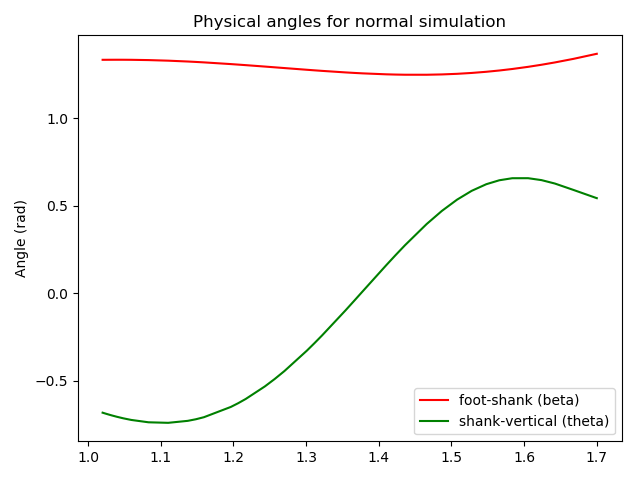
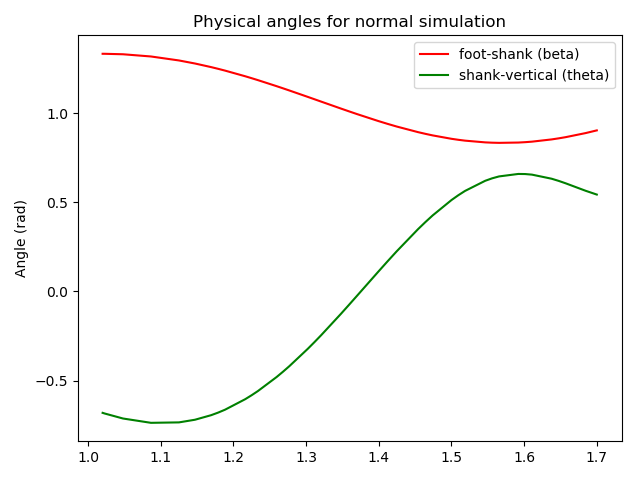
Change stuff so normal gait is working well

diff --git a/gait_simulate.py b/gait_simulate.py
@@ -14,7 +14,7 @@ import regression as r
 
 # ******** GLOBAL CONSTANTS ********
 # TODO: UPDATE THESE ! Some are still missing 
-I_ANKLE = 90
+I_ANKLE = 10
 F_MAX_SOLEUS = 16000
 F_MAX_TIBIALIS = 2000
 MOMENT_ARM_SOLEUS = .048
@@ -75,12 +75,6 @@ class GaitSimulator:
         :return the practical soleus activation for the type of simulation
         """
         a = r.soleus_activation(t)
-        if self.footDrop:
-            # reduce by a certain amount
-            a = a * 0.1 
-        if self.fes:
-            # add excitation
-            a = a + self.get_soleus_excitation(t, beta, d_beta, theta)
 
         return a
 
@@ -96,7 +90,7 @@ class GaitSimulator:
         a = r.tibialis_activation(t)
         if self.footDrop:
             # reduce by a certain amount
-            a = a * 0.1
+            a = 0
         if self.fes:
             # add excitation
             a = a + self.get_tibialis_excitation(t, beta, d_beta, theta)
@@ -158,8 +152,8 @@ class GaitSimulator:
         l_tibialis = tibialis_length(beta)
         l_tendon_norm_soleus = self.soleus.norm_tendon_length(l_soleus, l_ce_norm_soleus)
         l_tendon_norm_tibialis = self.tibialis.norm_tendon_length(l_tibialis, l_ce_norm_tibialis)
-        torque_soleus = force_length_tendon_single_val(l_tendon_norm_soleus) * F_MAX_SOLEUS * MOMENT_ARM_SOLEUS
-        torque_tibant = force_length_tendon_single_val(l_tendon_norm_tibialis) * F_MAX_TIBIALIS * MOMENT_ARM_TIBIALIS
+        torque_soleus = force_length_tendon_single_val(l_tendon_norm_soleus) * F_MAX_SOLEUS * activation_soleus * MOMENT_ARM_SOLEUS
+        torque_tibant = force_length_tendon_single_val(l_tendon_norm_tibialis) * F_MAX_TIBIALIS * activation_tibialis * MOMENT_ARM_TIBIALIS
         vm_soleus = get_velocity_single_val(activation_soleus, l_ce_norm_soleus, l_tendon_norm_soleus)
         vm_tibialis = get_velocity_single_val(activation_tibialis, l_ce_norm_tibialis, l_tendon_norm_tibialis)
         # print(vm_soleus, vm_tibialis)
@@ -167,10 +161,9 @@ class GaitSimulator:
         # derivative of state: 
         xd = [0, 0, 0, 0]
         xd[0] = d_beta
-        xd[1] = (torque_soleus - torque_tibant + gravity_moment_ankle(beta, theta, H)) / I_ANKLE 
+        xd[1] = (torque_soleus - torque_tibant + r.knee_torque(t) - r.hip_torque(t) + gravity_moment_ankle(beta, theta, H)) / I_ANKLE 
         xd[2] = vm_soleus
         xd[3] = vm_tibialis
-        # print("t={}, X = {}".format(t, x))
         return xd
 
 
@@ -211,7 +204,7 @@ class GaitSimulator:
 
         plot_regressions(t0, CYCLE_PERIOD)
 
-        x0 = [beta0, 0, 1, 1] # TODO: initial values need to be determined 
+        x0 = [beta0, 0, 1.1, 0.95] # TODO: initial values need to be determined 
         sol = solve_ivp(
                         f, 
                         [t0, CYCLE_PERIOD], 
@@ -250,8 +243,8 @@ class GaitSimulator:
         for t, b, d_b, th, ls, lt in zip(time, beta, d_beta, theta, soleus_norm_length_muscle, tibialis_norm_length_muscle):
             soleus_moment.append(MOMENT_ARM_SOLEUS * self.soleus.get_force_single_val(soleus_length(b), ls))
             tibialis_moment.append(-MOMENT_ARM_TIBIALIS * self.tibialis.get_force_single_val(tibialis_length(b), lt))
-            ankle_height.append(HIP_HEIGHT - np.cos(np.pi - r.hip_angle(t))*THIGH_LENGTH - SHANK_LENGTH*np.cos(th))
-            toe_height.append(HIP_HEIGHT - np.cos(np.pi - r.hip_angle(t))*THIGH_LENGTH - SHANK_LENGTH*np.cos(th) + FOOT_LENGTH*np.sin(np.pi/2 - b + th)) 
+            ankle_height.append(HIP_HEIGHT - np.cos(np.pi - r.hip_angle(t))*THIGH_LENGTH - SHANK_LENGTH*np.cos(abs(th)))
+            toe_height.append(HIP_HEIGHT - np.cos(np.pi - r.hip_angle(t))*THIGH_LENGTH - SHANK_LENGTH*np.cos(abs(th)) + FOOT_LENGTH*np.sin(np.pi/2 - b + th)) 
             excit_soleus.append(self.get_soleus_excitation(t, b, d_b, th))
             excit_tibialis.append(self.get_tibialis_excitation(t, b, d_b, th))
             act_soleus.append(self.get_soleus_activation(t, b, d_b, th)[0])
@@ -289,7 +282,7 @@ class GaitSimulator:
         plt.title("Height off the ground for {} simulation".format(self.suffix()))
         plt.plot(time, toe_height, 'r')
         plt.plot(time, ankle_height, 'g')
-        plt.legend(('toes', 'ankle'))
+        plt.legend(('toes', 'heel'))
         plt.xlabel('Time (s)')
         plt.ylabel('Height (m)')
         # plt.ylim(0, 0.5)
@@ -307,6 +300,16 @@ class GaitSimulator:
         plt.xlabel("Time (s)")
         plt.tight_layout()
         plt.savefig("outputs/activations_{}.png".format(self.suffix()))
+
+        plt.figure()
+        plt.title("Normalized CE lengths for {} simulation".format(self.suffix()))
+        plt.plot(time, soleus_norm_length_muscle, 'r')
+        plt.plot(time, tibialis_norm_length_muscle, 'g')
+        plt.legend(("soleus", "tibialis"))
+        plt.ylabel("Normalized length")
+        plt.xlabel("Time (s)")
+        plt.tight_layout()
+        plt.savefig("outputs/lengths_{}.png".format(self.suffix()))
 
 
 
@@ -347,7 +350,7 @@ def gravity_moment_ankle(beta, theta, H):
     foot_moment = MASS_FOOT*GRAVITY*D_COM_SHANK_ANKLE*np.cos(np.pi/2 - beta + theta)
     shank_moment = MASS_SHANK*GRAVITY*D_COM_SHANK_ANKLE*np.sin(theta)
     thigh_moment = MASS_THIGH*GRAVITY*(D_COM_THIGH_KNEE*np.sin(np.pi - H) + SHANK_LENGTH*np.sin(theta))
-    return -foot_moment + (torso_moment + shank_moment + thigh_moment)
+    return -foot_moment + (shank_moment + thigh_moment + thigh_moment)
 
 
 def plot_regressions(t0, tf):
